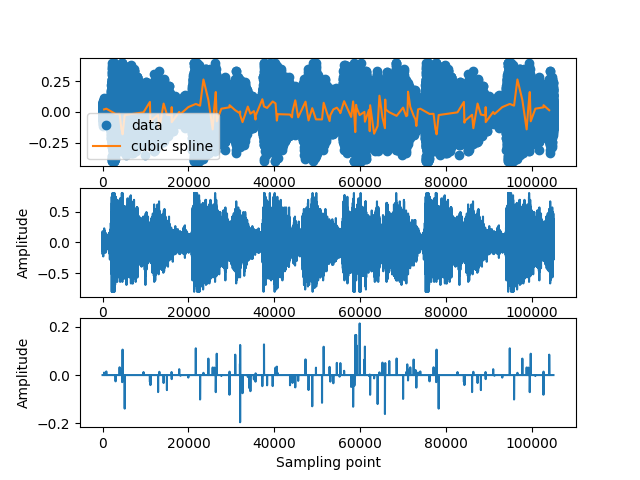
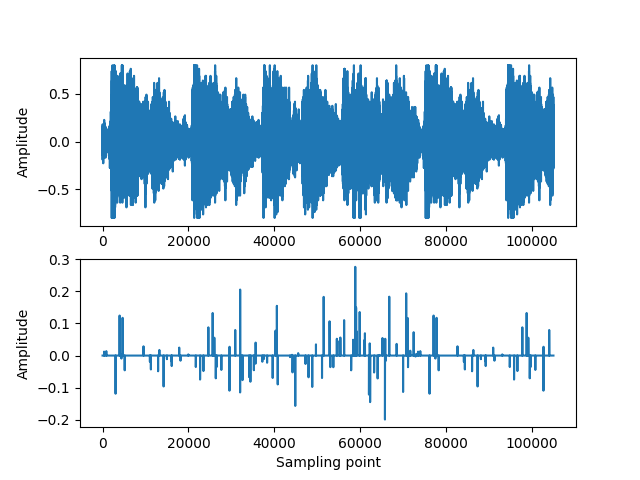
new update
correct all the mistakes

diff --git a/Jiachengli_medianf/assignment2_2.py b/Jiachengli_medianf/assignment2_2.py
@@ -49,6 +49,7 @@ COUNT = 0
 detection = []
 x_origin = []
 x_interp = []
+x_all = []
 for i in range (0, (len(audio_error) - 1)):
     if (abs(audio_error[i]) < 0.1):
         detect = 0
@@ -60,6 +61,7 @@ for i in range (0, (len(audio_error) - 1)):
         x_in = i
         x_interp.append(x_in)
     detection.append(detect)
+    x_all.append(i)
     
     
 print(detection)
@@ -83,29 +85,55 @@ print(y_origin)
 ''''calculate the execution time and restore the audio'''
 
 start = time.perf_counter()
+block_size = 5
+MSE_order = []
+block_new = []
+for block_size in range (5 , 31, 2): 
+    COUNT = 0
+    for i in (range (0, len(detection))):
+        if (detection[i] != 0):
+            COUNT = COUNT + 1
+            block = np.linspace((i - block_size // 2), (i + block_size // 2) , (block_size + 1))
+            x_block = []
+            y_block = []
+            for j in range (i - block_size // 2, min((i + block_size // 2), len(detection))):
+                
+                if (detection[j] == 0):
+                    x = j
+                    y = audio_2[j]
+                    x_block.append(x) 
+                    y_block.append(y)
+            print(x_block)
+            print(y_block)         
+            cs = CubicSpline(x_block, y_block)
+            y_interp = cs(block)
+            print(y_interp)
+            audio_2[i] = y_interp[block_size // 2]
+    MSE = np.sum((((audio_2 * 2) - audioc_2) ** 2)) / COUNT
+    print("MSE = ", MSE)
+    MSE_order.append(MSE)
+    block_new.append(block_size)
 
-cs = CubicSpline(x_origin, y_origin)
-y_interp = cs(x_interp)
-for i in range (0, len(x_interp)):
-    audio_2[x_interp[i]] = y_interp[i]
-
+print("MSE = ", MSE_order)
+print("b = ", block_new)
+plt.plot(block_new, MSE_order)
+plt.xlabel('Sampling point')
+plt.ylabel('Amplitude')
+plt.show()
 end = time.perf_counter()
 elapsed = end - start
 print(f'execution time  = {elapsed}')
 
 ''''plot the figure of restored audio and ERROR to check whether it is restored correctly'''
 
-plt.subplot(3,1,1)
-plt.plot(x_origin, y_origin, 'o', label='data')
-plt.plot(x_interp, y_interp, label='cubic spline')
-plt.legend()
+
 print(audio_2)
 print(min(audio_2))
-plt.subplot(3,1,2)
+plt.subplot(2,1,1)
 plt.plot(t_2, 2 * audio_2)
 plt.ylabel('Amplitude')
 audio_error = 2 * audio_2 - audioc_2
-plt.subplot(3,1,3)
+plt.subplot(2,1,2)
 plt.plot(t_2, audio_error)
 plt.xlabel('Sampling point')
 plt.ylabel('Amplitude')

diff --git a/Jiachengli_medianf/assignment2.py b/Jiachengli_medianf/assignment2.py
@@ -38,7 +38,6 @@ for i in range (0, (len(audio_error) - 1)):
     else:
         detect = 1
     detection.append(detect)
-print(detection)
 
 def mid_filter(x, d):
     """take several numbers, return several middle numbers

diff --git a/Jiachengli_medianf/Readme_template/Readme_template/README.md b/Jiachengli_medianf/Readme_template/Readme_template/README.md
@@ -22,7 +22,7 @@ For more details check [here](https://github.com/bndr/pipreqs)
 
 Afer installing all required packages you can run the demo file simply by typing:
 ```sh
-python demo_audio_restoration.py
+python assignment2.py
 ```
 ---
 
@@ -52,6 +52,10 @@ In the Figure_5, the first part of this figure contains the orignal part signal 
 1. For the median filter, different lengths were explored to test the effectiveness of the restoration. In particular, lengths changed from 3 to 19 with a duration 2 were tested and 5 was observed to deliver the lowest MSE, as shown in the figure below.
 
 <img src="Figure_3.png" width="350">
+
+For the median filter, different lengths were explored to test the effectiveness of the restoration. In particular, lengths changed from 5 to 31 with a duration 2 were tested and 11 was observed to deliver the lowest MSE, as shown in the figure below.
+
+<img src="Figure_6.png" width="350">
 
 ```sh
  filter  = 5

diff --git a/README.md b/README.md
@@ -53,6 +53,10 @@ In the Figure_5, the first part of this figure contains the orignal part signal 
 
 <img src="Figure_3.png" width="350">
 
+For the median filter, different lengths were explored to test the effectiveness of the restoration. In particular, lengths changed from 5 to 31 with a duration 2 were tested and 11 was observed to deliver the lowest MSE, as shown in the figure below.
+
+<img src="Figure_6.png" width="350">
+
 ```sh
  filter  = 5
  MSE = 0.013569671723213213
